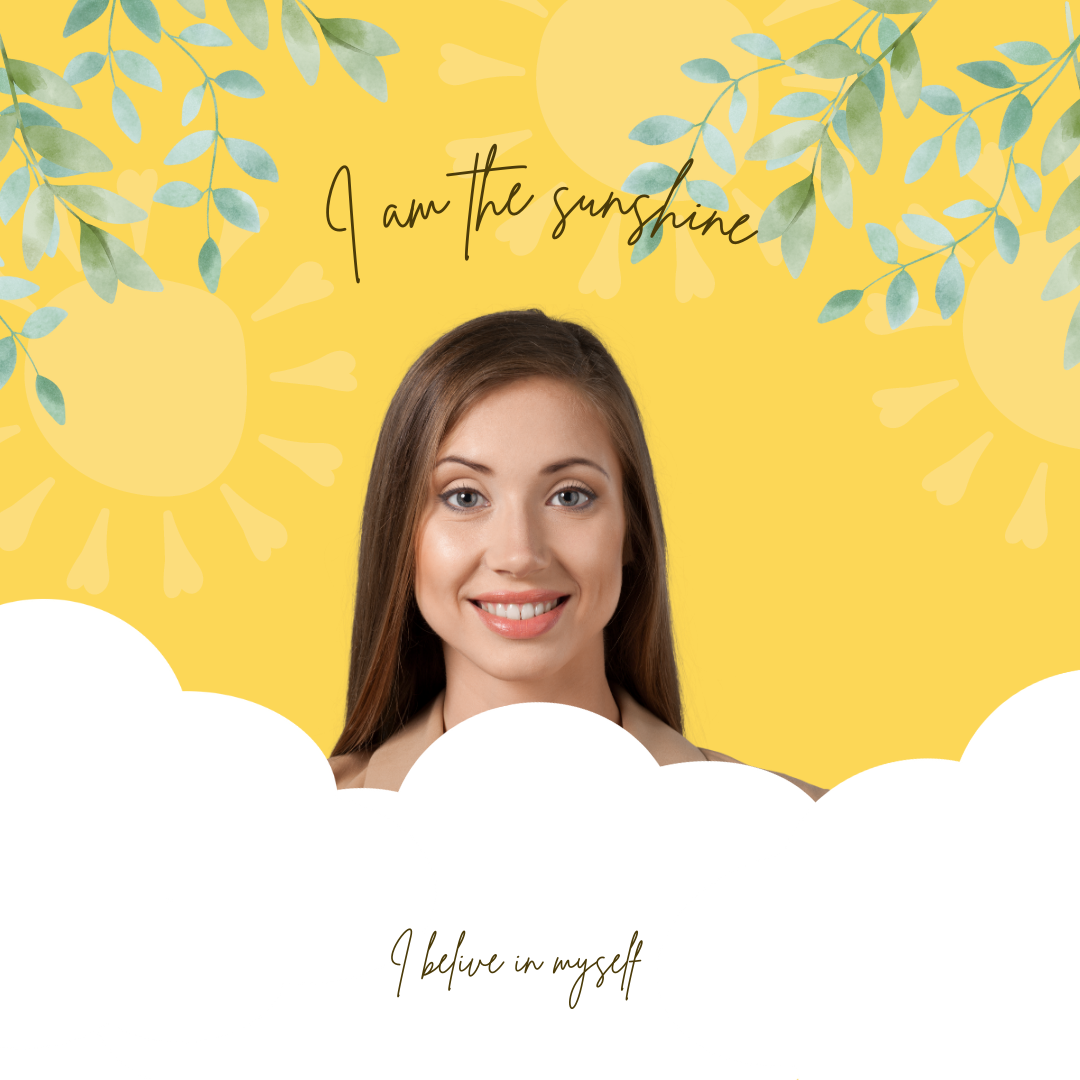
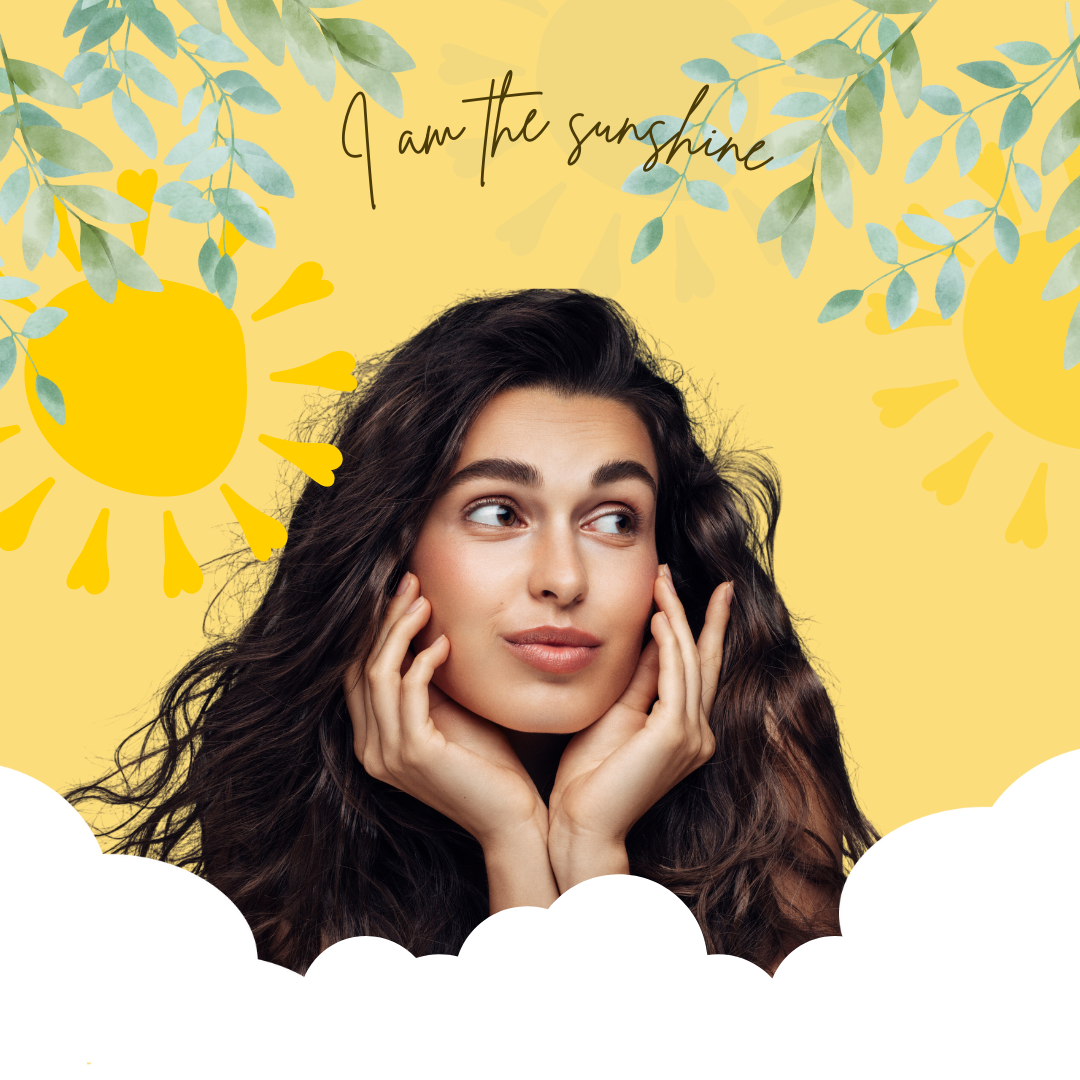
Result: Show edited img

diff --git a/src/Components/UploadSection.js b/src/Components/UploadSection.js
@@ -1,24 +1,82 @@
-import React from "react";
+import React, {useState, useEffect} from "react";
 import "./UploadSection.css"
 import Example from "../assets/Example.png"
-import cameraIcon from "../assets/🦆 icon _camera outline_.png"
+import front from "../assets/front.png"
 import logOut from "../assets/🦆 icon _log out_.png"
-
+import back from "../assets/back.png"
 
 const UploadSection = () => {
+
+    const [selectedFile, setSelectedFile] = useState();
+    const [imageUrl, setImageUrl] = useState(null);
+    const [zoom, setZoom] = useState(200)
+
+    const onFileChange = (e) => {
+        setSelectedFile(e.target.files[0])
+    } 
+
+    const handleUpload = () => {
+        const formData = new FormData();
+        formData.append('image_file', selectedFile);
+        console.log(formData);
+    }
+
+    const editedImg = () => {
+
+
+        const overlayImg = {
+            width:"350px",
+            height:"350px",
+            position:"absolute",
+            border: "3px solid black",
+        }
+
+        const mainPic  = {
+            width:`${zoom}px`,
+            height:`${zoom}px`,
+            bottom:5,
+            left: `calc(50% - ${zoom / 2}px)`,
+            position:"absolute"
+        }
+        const stableImg = {
+            width:"350px",
+            height:"350px"
+        }
+
+
+
+        return(
+            <>
+                
+                <img src={URL.createObjectURL(selectedFile)} alt="" style={mainPic}/>
+                <img src={front} alt="" style={overlayImg}/>
+                <img src={back} alt="" style={stableImg}/>
+            </>
+        )
+
+    }
+
+    useEffect(() => {
+        handleUpload();
+    },[selectedFile])
 
     return(
         <div className="UploadSection">
             <h2>Transform your photo here!</h2>
             <div className="inputArea">
                 <label htmlFor="imgInput" id="uploadBtn"><img src={logOut} alt="" className="icon"/> Upload Image </label>
-                <input type="file" accept="image/*" capture="camera" id="imgInput" style={{ display: 'none' }} />
-                <button id="openCamera"><img src={cameraIcon} alt="" className="icon"/> Open Camera</button>
+                <input type="file" onChange={onFileChange} accept="image/*" capture="camera" id="imgInput" style={{ display: 'none' }} />
             </div>
             
             <div className="createImage">
-                <img src={Example} alt="" />
+                {selectedFile ? editedImg() : <img src={Example} alt="" id="exampleImg" />}
             </div>
+
+            <div className="control">
+                <button onClick={()=>{setZoom(zoom+4)}}>+</button>
+                <button onClick={()=>{setZoom(zoom-4)}}>-</button>
+            </div>
+            
             
             <p>We do not collect your photo.</p>
         </div>

diff --git a/src/Components/UploadSection.css b/src/Components/UploadSection.css
@@ -15,7 +15,7 @@
     text-align: center;
 }
 
-.createImage img{
+#exampleImg{
     width: 300px;
     height: 300px;
     border: 3px solid black;
@@ -32,7 +32,7 @@
     gap:30px;
 }
 
-#uploadBtn, #openCamera{
+#uploadBtn{
     background-color: black;
     color: white;
     font-family: inherit;
@@ -51,4 +51,35 @@
 
 .icon{
     width: 20px;
+}
+
+.createImage{
+    position: relative;
+}
+
+.control{
+    display: flex;
+    gap:30px;
+}
+
+.control button{
+    background-color: black;
+    color: white;
+    font-family: inherit;
+    font-size: 0.8rem;
+    border: none;
+    width: 80px;
+    text-align: center;
+    padding: 10px 0;
+    border-radius: 30px;
+    font-weight: bold;
+}
+
+button, label{
+    transition-duration: 0.2s;
+    cursor: pointer;
+}
+
+button:hover, label:hover{
+    transform: translateY(-0.2rem);
 }

diff --git a/src/Components/Term.css b/src/Components/Term.css
@@ -17,6 +17,10 @@
     list-style: disc;
 }
 
+.Term ul{
+    color: rgb(101, 101, 101);
+}
+
 @media  screen and (max-width: 800px) {
 
     .Term{
